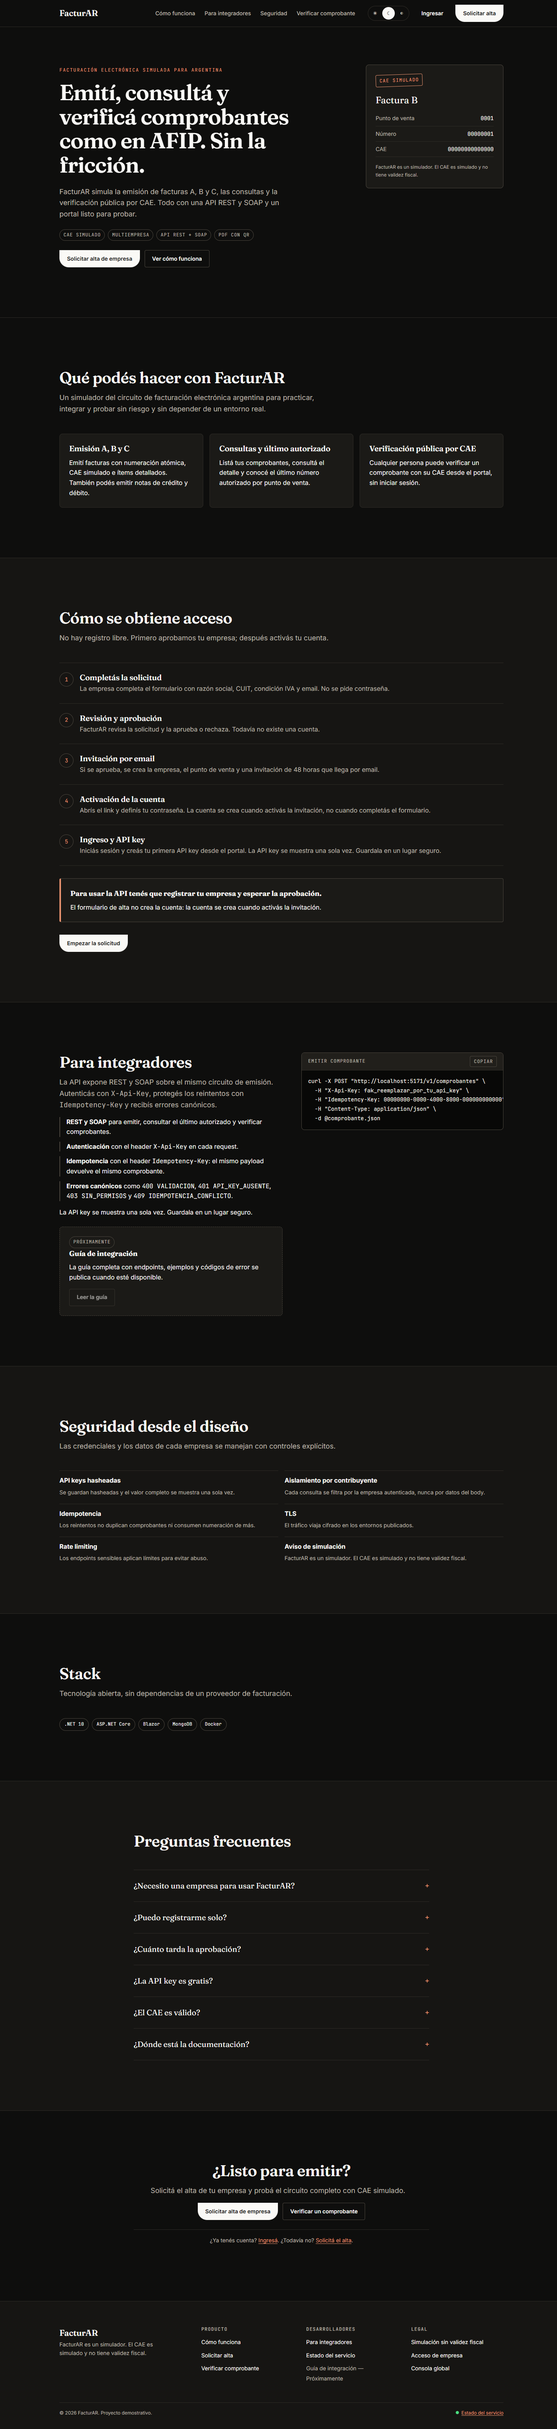
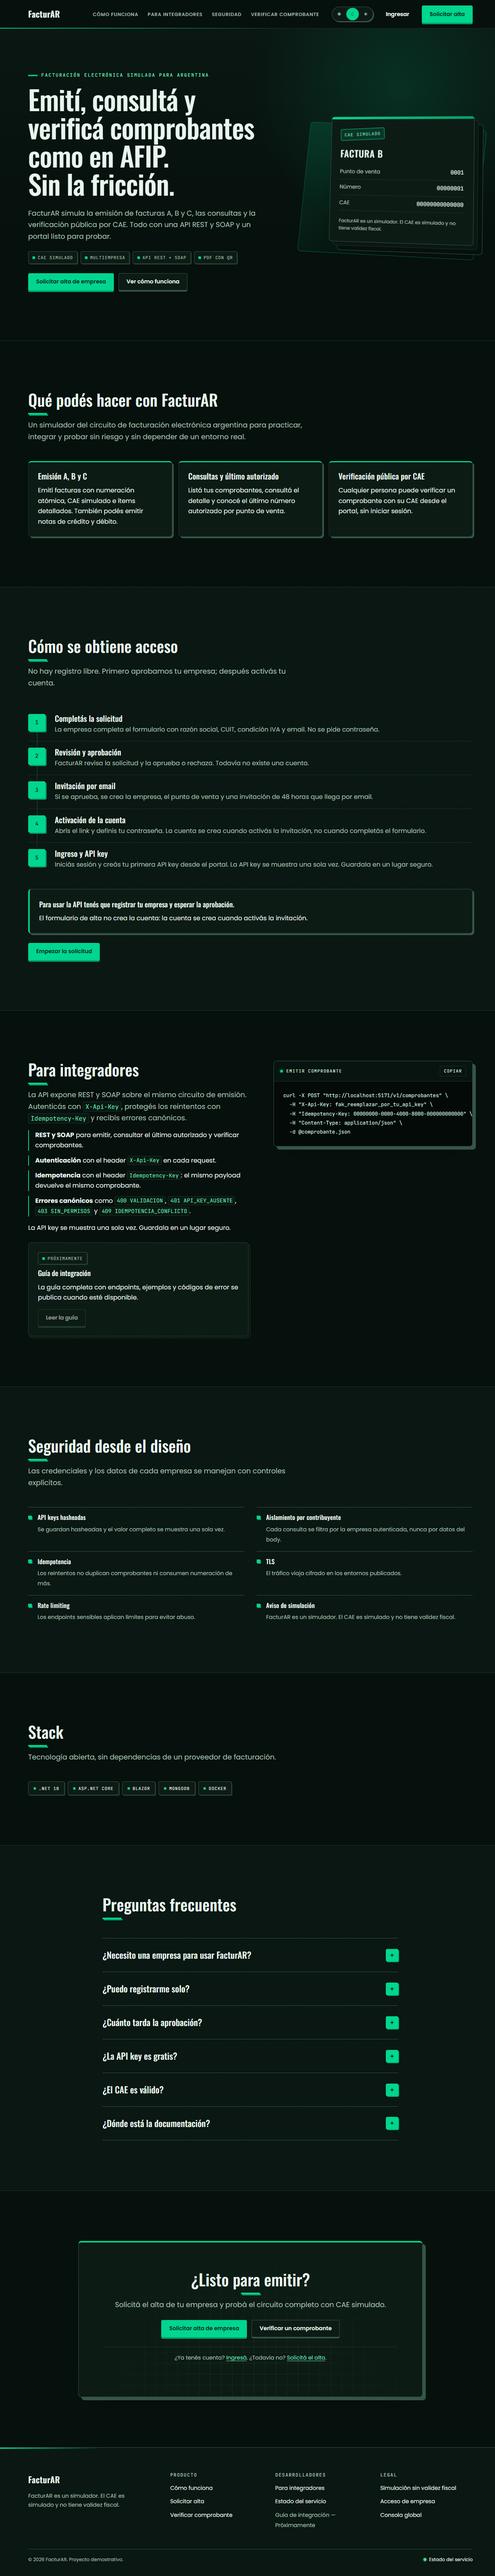
docs(us-32): actualizar la historia y las capturas al rediseño Perspective

diff --git a/docs/historias-usuario/US-32-landing-publica-chatbot.md b/docs/historias-usuario/US-32-landing-publica-chatbot.md
@@ -79,7 +79,7 @@ Reglas que la landing y el asistente deben comunicar sin ambigüedad:
 - [x] La landing deja un slot visible para la guía de integración, con estado “Próximamente” mientras US-30 no esté implementada.
 - [x] La landing es navegable con teclado y tiene enlace “Saltar al contenido”.
 - [x] La landing se ve correctamente en 375, 768, 1280 y 1440 px, sin scroll horizontal.
-- [x] La landing no usa imágenes de stock ni templates genéricos; la identidad es original (“Papel y sello”).
+- [x] La landing no usa imágenes de stock ni templates genéricos; la identidad es original (“Planos en perspectiva”).
 - [x] La landing no depende de JavaScript para mostrar el contenido principal.
 
 ### Sistema de diseño y temas
@@ -139,7 +139,7 @@ Reglas que la landing y el asistente deben comunicar sin ambigüedad:
 - [x] Los tests del asistente usan un proveedor falso; no llaman a Groq en CI.
 - [x] Se actualizan `README.md`, el índice de historias, `docs/requisitos-funcionales.md` y este archivo.
 - [x] `dotnet build`, `dotnet test` y `dotnet format --verify-no-changes` pasan.
-- [ ] El PR incluye capturas de la landing en claro y oscuro, desktop y móvil.
+- [x] El PR incluye capturas de la landing en claro y oscuro, desktop y móvil.
 - [ ] El PR incluye el reporte de Lighthouse y el resultado de axe.
 
 ## Escenarios Gherkin
@@ -216,23 +216,24 @@ Scenario: Groq no responde
 
 ### Fuente y concepto
 
-La base visual se toma del skill **claude** de OpenDesign (`.opencode/skills/claude/SKILL.md` y `DESIGN.md`, autor `typeui.sh`), incorporado al repositorio en `.opencode/skills/claude/`.
+La base visual se toma del skill **Perspective** de OpenDesign (`.opencode/skills/perspective/SKILL.md` y `DESIGN.md`, autor `typeui.sh`), incorporado al repositorio en `.opencode/skills/perspective/`.
 
-El skill propone una estética editorial sobre papel cálido, tinta casi negra y un acento terroso, con superficies de bordes duros, sin sombras y con una CTA primaria de geometría asimétrica. Se adapta a FacturAR con el concepto **“Papel y sello / libro mayor”**:
+El skill propone una estética espacial con vistas isométricas, puntos de fuga y capas que ordenan la atención. Se adapta a FacturAR con el concepto **“Planos y comprobantes en perspectiva”**:
 
-- Papel marfil en claro y tinta nocturna en oscuro.
-- Líneas de libro mayor como separadores, no como decoración excesiva.
-- Un sello tipográfico para “CAE simulado” y para los hitos de confianza.
-- Monospace para CUIT, CAE y bloques de código.
-- CTA primaria con borde superior recto y borde inferior redondeado, usada con moderación.
-- Sin gradientes, sin glows, sin sombras difusas y sin glassmorphism.
+- Fondo verde tinta muy claro en claro y verde nocturno en oscuro.
+- Grilla en perspectiva en el hero, el alta y la verificación.
+- Comprobante apilado en capas con desplazamiento 3D en el hero.
+- Tarjetas con borde superior mint y sombra dura.
+- CTA primaria con labio inferior sólido que se hunde al presionar.
+- Etiquetas, CUIT, CAE y código en monoespaciada.
+- Sin glassmorphism, sin gradientes violeta y sin animaciones de parallax.
 
-Las fuentes propietarias del skill (Anthropic Sans/Serif) **no se usan**. Se reemplazan por alternativas abiertas y self-hosted:
+Las fuentes propietarias del skill **no se usan**. Se reemplazan por alternativas abiertas y self-hosted:
 
 | Rol | Fuente | Fallback |
 | --- | --- | --- |
-| UI / texto | Inter (variable) | `"Segoe UI", system-ui, sans-serif` |
-| Display / títulos | Fraunces (variable) | `"Iowan Old Style", Georgia, serif` |
+| UI / texto | Poppins 400/500/600/700 | `"Segoe UI", system-ui, sans-serif` |
+| Display / títulos | Oswald (variable) | `"Arial Narrow", Impact, sans-serif` |
 | Mono / código | JetBrains Mono (variable) | `"Cascadia Code", ui-monospace, monospace` |
 
 ### Paleta de tokens
@@ -241,28 +242,35 @@ Los valores son la fuente de verdad para implementar. El contraste final se vali
 
 | Token | Claro | Oscuro | Uso |
 | --- | --- | --- | --- |
-| `--color-bg` | `#FAF9F6` | `#0E0E0D` | Fondo de página |
-| `--color-bg-subtle` | `#F3F0E9` | `#161513` | Secciones alternas |
-| `--color-surface` | `#FFFFFF` | `#1B1A17` | Tarjetas y paneles |
-| `--color-surface-raised` | `#FFFDF9` | `#211F1B` | Elementos elevados |
-| `--color-text` | `#141413` | `#FAF9F6` | Texto principal |
-| `--color-text-muted` | `#57534E` | `#BDB6AA` | Texto secundario |
-| `--color-border` | `#E4DED3` | `#2E2B26` | Bordes y separadores |
-| `--color-border-strong` | `#C9C1B3` | `#4A453D` | Bordes de foco/énfasis |
-| `--color-primary` | `#141413` | `#FAF9F6` | Botón primario |
-| `--color-on-primary` | `#FAF9F6` | `#141413` | Texto sobre primario |
-| `--color-accent` | `#B4532A` | `#E8926F` | Acento arcilla, links y sellos |
-| `--color-on-accent` | `#FFFFFF` | `#1A0F0A` | Texto sobre acento |
+| `--color-bg` | `#F2F7F4` | `#06100C` | Fondo de página |
+| `--color-bg-subtle` | `#E8F1EC` | `#0A1712` | Secciones alternas |
+| `--color-surface` | `#FFFFFF` | `#0D1B15` | Tarjetas y paneles |
+| `--color-surface-raised` | `#F8FCFA` | `#12241C` | Elementos elevados |
+| `--color-text` | `#0A1511` | `#E9F6EF` | Texto principal |
+| `--color-text-muted` | `#4C615A` | `#A9C0B6` | Texto secundario |
+| `--color-border` | `#D2E3DA` | `#1E3329` | Bordes y separadores |
+| `--color-border-strong` | `#A6C4B6` | `#355547` | Bordes de énfasis y sombras duras |
+| `--color-primary` | `#00BD7D` | `#00D68F` | CTA, focos y acentos |
+| `--color-primary-strong` | `#00996A` | `#00A36C` | Labio 3D del primario |
+| `--color-on-primary` | `#032219` | `#032219` | Texto sobre primario |
+| `--color-accent` | `#00714B` | `#6EE7B7` | Enlaces y énfasis |
+| `--color-on-accent` | `#FFFFFF` | `#04231A` | Texto sobre acento |
 | `--color-success` | `#15803D` | `#4ADE80` | Éxito |
 | `--color-warning` | `#B45309` | `#FBBF24` | Advertencia |
 | `--color-danger` | `#B91C1C` | `#F87171` | Error |
-| `--color-focus` | `#1D4ED8` | `#93C5FD` | Anillo de foco funcional |
-| `--color-code-bg` | `#141413` | `#080807` | Bloques de código |
-| `--color-code-text` | `#F5F1E8` | `#F5F1E8` | Texto de código |
+| `--color-focus` | `#005C3C` | `#7DFFC4` | Anillo de foco funcional |
+| `--color-code-bg` | `#06110C` | `#030A07` | Bloques de código |
+| `--color-code-header` | `#0B1D15` | `#07140F` | Cabecera del bloque de código |
+| `--color-code-text` | `#D7F5E7` | `#D7F5E7` | Texto de código |
+| `--color-primary-soft` | `rgba(0,189,125,.12)` | `rgba(0,214,143,.14)` | Glows y fondos suaves |
+| `--color-grid` | `rgba(7,60,44,.10)` | `rgba(126,231,183,.10)` | Grillas en perspectiva |
 
 Reglas:
 
-- El acento arcilla se usa en menos del 5% de la superficie visible.
+- El primario mint se usa para CTA, foco y estados activos; no como color de texto de párrafo.
+- La profundidad se construye con desplazamientos duros (`2px`, `4px`, `8px`) y el labio de `4px` del botón primario.
+- La sombra difusa se reserva para el recibo del hero, las tarjetas de autenticación y el panel del asistente.
+- Los planos 3D nunca contienen texto interactivo ni reemplazan la jerarquía semántica.
 - El foco nunca se elimina; se dibuja con `outline: 2px solid var(--color-focus); outline-offset: 2px`.
 - Los estados `hover`, `active`, `disabled` y `focus-visible` son explícitos.
 - No se usan colores crudos en componentes; siempre tokens semánticos.
@@ -279,45 +287,49 @@ Reglas:
 | `--text-xl` | 1.25rem / 20px | H3 |
 | `--text-2xl` | 1.5rem / 24px | H2 |
 | `--text-3xl` | 2rem / 32px | H1 mobile |
-| `--text-4xl` | 2.5rem / 40px | H1 tablet |
+| `--text-4xl` | 2.75rem / 44px | H1 tablet |
 | `--text-5xl` | 3.5rem / 56px | H1 desktop |
 | `--text-6xl` | 4.5rem / 72px | Display puntual |
 
-- Interlineado: 1.1 para display, 1.25 para títulos, 1.6 para cuerpo.
+- Interlineado: 1.02 para display, 1.15 para títulos, 1.65 para cuerpo.
 - Ancho de lectura: 65–75 caracteres.
-- No se usa todo en mayúsculas salvo etiquetas cortas con `letter-spacing: 0.08em`.
-- Los títulos usan Fraunces 500/600; el cuerpo usa Inter 400/500.
+- No se usa todo en mayúsculas salvo etiquetas cortas con `letter-spacing: 0.08em–0.16em`.
+- Los títulos usan Oswald 500; el cuerpo usa Poppins 400/500 y los labels Poppins 600.
+- El hero usa `clamp(2.6rem, 5.4vw, 4.75rem)`; en móvil baja a `clamp(2.35rem, 11vw, 3.25rem)`.
+- Los números de paso, chips y sellos usan JetBrains Mono en mayúsculas.
 
 ### Espaciado, radios y movimiento
 
 - Escala de espaciado: 4, 8, 12, 16, 24, 32, 48, 64, 96 px.
 - Secciones de landing: `clamp(64px, 10vw, 128px)` de padding vertical.
 - Contenedor máximo: 1200 px; lectura: 720 px.
-- Radios: 0 para CTA principales, 4 px para inputs, 8 px para tarjetas, 999 px solo para chips.
-- Sombras: ninguna decorativa. Solo borde de 1 px y, si hace falta, un desplazamiento duro de 2 px en hover.
-- Transiciones: 120–180 ms, `ease-out`; se desactivan con `prefers-reduced-motion: reduce`.
+- Radios: 4 px para controles, botones y chips; 8 px para tarjetas y paneles; 999 px solo para el toggle de tema y el botón flotante del asistente.
+- Profundidad: sombras duras de `2px`, `4px` y `8px`; labio del primario `0 4px 0`; sombra de elevación solo en recibo, auth y asistente.
+- Planos isométricos: `perspective` entre 600 y 1200 px, `rotateX`/`rotateY` suaves y `overflow: hidden` en la sección para evitar scroll horizontal.
+- Transiciones: 120–200 ms, `cubic-bezier(0.2, 0.7, 0.2, 1)`; se desactivan con `prefers-reduced-motion: reduce`.
 - No se usan animaciones de scroll, parallax ni autoplay.
 
 ### Componentes base
 
 | Componente | Reglas |
 | --- | --- |
-| Navbar | Logo, enlaces, toggle de tema, “Ingresar”, CTA “Solicitar alta”. Sticky con borde inferior. En móvil, menú accesible con `<button aria-expanded>`. |
+| Navbar | Logo, enlaces mono en mayúsculas, toggle de tema, “Ingresar”, CTA “Solicitar alta”. Sticky con blur, borde inferior y regla mint. En móvil, menú accesible con `<button aria-expanded>`. |
 | Footer | Logo, descripción corta, columnas Producto/Desarrolladores/Legal, estado del servicio y copyright. |
-| Botón primario | Fondo `--color-primary`, texto `--color-on-primary`, borde superior recto y borde inferior redondeado 24 px. |
-| Botón secundario | Borde 1 px, fondo transparente, texto principal. |
-| Tarjeta | Superficie, borde 1 px, sin sombra, padding 24–32 px. |
-| Badge/sello | Borde 1 px, texto mono en mayúsculas, sin relleno fuerte. |
-| Bloque de código | Fondo `--color-code-bg`, texto `--color-code-text`, botón “Copiar” accesible. |
-| Acordeón FAQ | `<details>`/`<summary>` nativo o botón con `aria-expanded`; foco visible. |
-| Toggle de tema | Grupo de 3 opciones (Claro, Oscuro, Sistema) o botón cíclico con nombre accesible. Persistencia y `aria-pressed`. |
-| Asistente | Botón flotante abajo a la derecha, panel, header, mensajes, quick replies, input, disclaimer. |
+| Botón primario | Fondo `--color-primary`, texto `--color-on-primary`, radio 4 px y labio `0 4px 0 --color-primary-strong`. Hover eleva 2 px; active hunde 2 px. |
+| Botón secundario | Superficie, borde fuerte, texto principal y sombra dura de 3 px; hover cambia el labio a mint. |
+| Tarjeta | Superficie, borde 1 px, borde superior mint de 3 px, radio 8 px y sombra dura de 4 px. Hover eleva 2 px. |
+| Badge/sello | Mono en mayúsculas, superficie, borde fuerte, cuadrado mint y sombra dura de 2 px. |
+| Bloque de código | Fondo oscuro, cabecera con punto mint, texto mono claro y botón “Copiar” accesible. |
+| Acordeón FAQ | `<details>`/`<summary>` nativo; indicador +/− en cuadrado mint con sombra dura; foco visible. |
+| Toggle de tema | Grupo de 3 opciones (Claro, Oscuro, Sistema) con `aria-pressed`; la opción activa usa mint. Persistencia y `prefers-color-scheme` en `system`. |
+| Asistente | Botón flotante abajo a la derecha con labio mint, panel con borde superior mint, header, mensajes, quick replies, input y disclaimer. |
 
 ### Anti-patrones prohibidos
 
 - Copiar un template de landing SaaS genérico.
-- Usar gradientes violeta/azul, glassmorphism o ilustraciones 3D de stock.
-- Sombras difusas, bordes redondeados en todos los elementos y animaciones constantes.
+- Usar glassmorphism, gradientes violeta/azul o ilustraciones 3D de stock.
+- Aplicar transformaciones 3D a párrafos, formularios o controles interactivos.
+- Sombras difusas fuera del recibo, las tarjetas de auth y el asistente.
 - Texto gris claro sobre fondo claro.
 - Íconos sin etiqueta accesible.
 - Un `<div>` clickeable en lugar de un `<a>` o `<button>`.
@@ -376,10 +388,13 @@ Reglas:
 - JavaScript propio mínimo en `wwwroot/js/theme.js` y `wwwroot/js/asistente.js`.
 - Sin Bootstrap en la landing. El portal autenticado puede conservar Bootstrap mientras migra a tokens.
 - Fuentes self-hosted:
-  - `wwwroot/fonts/inter-latin-var.woff2`
-  - `wwwroot/fonts/fraunces-latin-var.woff2`
+  - `wwwroot/fonts/poppins-latin-400.woff2`
+  - `wwwroot/fonts/poppins-latin-500.woff2`
+  - `wwwroot/fonts/poppins-latin-600.woff2`
+  - `wwwroot/fonts/poppins-latin-700.woff2`
+  - `wwwroot/fonts/oswald-latin-var.woff2`
   - `wwwroot/fonts/jetbrains-mono-latin-var.woff2`
-- Preload solo de Inter 400/600 y Fraunces 600; el resto con `font-display: swap`.
+- Preload solo de Poppins 400/600 y Oswald variable; el resto con `font-display: swap`.
 - El tema se aplica con un script inline de menos de 1 KB antes del primer paint.
 - Las imágenes del hero usan `fetchpriority="high"`; el resto `loading="lazy"`.
 
@@ -716,7 +731,7 @@ Enlaces a revisar: `Dashboard.razor`, `NavMenu.razor`, `Login.cshtml.cs`, `Compr
 
 - .NET 10 y el stack existente. No se agregan frameworks CSS/JS.
 - Groq se consume por HTTP con `HttpClient`; no se agrega SDK.
-- Fuentes open source self-hosted: Inter, Fraunces y JetBrains Mono (SIL Open Font License). Se incluyen los archivos `woff2` y la licencia en `wwwroot/fonts/LICENSE.txt`.
+- Fuentes open source self-hosted: Poppins, Oswald y JetBrains Mono (SIL Open Font License). Se incluyen los archivos `woff2` y la licencia en `wwwroot/fonts/LICENSE.txt`.
 - Si se decide usar un paquete de Markdown o sanitización, justificarlo en el PR; la preferencia es texto plano y cero dependencias nuevas.
 
 ## Accesibilidad
@@ -821,8 +836,9 @@ Enlaces a revisar: `Dashboard.razor`, `NavMenu.razor`, `Login.cshtml.cs`, `Compr
 - `AsistenteEndpointTests` cubre 404 deshabilitado, 400 sin antiforgery, 403 por `Origin` ausente o distinto, 400 por mensaje vacío, campo desconocido, rol `system` o body > 8 KB, 200 con proveedor falso, 503 amable sin stack trace, 429 al séptimo mensaje con `Retry-After` y no filtración de la key ni del `Origin`.
 - `AsistentePoliticaTests` cubre RT-32.01 a RT-32.10 y RT-32.13, incluida la inyección en base64 y con caracteres invisibles; `AsistenteLimitesTests` cubre rate limits, presupuesto diario, requests diarios y circuit breaker; `AsistenteOptionsTests` valida el arranque con `Asistente:Habilitado=true` sin key.
 - QA Playwright contra el portal en `http://localhost:5116` con el asistente habilitado y un proveedor inalcanzable a propósito: CP-32.01, CP-32.02, CP-32.03 (302), CP-32.05, CP-32.06, CP-32.07 (oscuro + recarga sin flash + `aria-pressed`), CP-32.08 (system con `emulateMedia`), CP-32.09 (375 px sin scroll horizontal, menú con teclado y Escape), CP-32.10 (skip link como primer foco; `main` con `tabindex="-1"`), CP-32.12 (abre, foco en input, Escape cierra y devuelve foco), CP-32.20 (XSS como texto, 0 `<img>`), CP-32.23 (wordmark textual, sin imagen rota) y CP-32.24 (`noindex` en login/admin/activar).
-- QA responsive en 375, 768, 1280 y 1440 px sin scroll horizontal. Asistente: quick replies visibles, disclaimer, contador, envío con Enter, 503 amable con “Reintentar” y enlaces a FAQ/formulario, sin stack trace; el tema claro/oscuro/sistema persiste en `localStorage`.
+- QA responsive en 375, 768, 1280 y 1440 px sin scroll horizontal. El rediseño Perspective se verificó en claro y oscuro, con foco visible por teclado, menú móvil y capturas regeneradas. Asistente: quick replies visibles, disclaimer, contador, envío con Enter, 503 amable con “Reintentar” y enlaces a FAQ/formulario, sin stack trace; el tema claro/oscuro/sistema persiste en `localStorage`.
 - Capturas en `docs/capturas/us-32/`: `landing-claro-desktop.png`, `landing-oscuro-desktop.png`, `landing-claro-movil.png`, `landing-oscuro-movil.png`, `asistente-desktop.png` y `asistente-movil.png` (las 6 existen y pesan más de 0 bytes).
+- Contraste WCAG de los pares de tokens principales medido con fórmula de luminancia relativa: texto/fondo 17.18:1 en claro y 17.38:1 en oscuro; texto atenuado 6.13:1/10.03:1; acento 5.60:1/12.67:1; texto sobre primario 6.88:1/8.84:1; texto sobre el labio del primario 4.62:1/5.18:1. Todos los pares de texto superan 4.5:1.
 - Verificación de tamaño: CSS de la landing 4,6 KB gzip (`tokens.css` + `public.css`); JS propio 5,7 KB gzip (`theme.js` + `asistente.js`), por debajo de los límites de la historia.
 - Persistencia: el asistente no accede a MongoDB ni escribe el texto de los mensajes; solo metadatos y categoría.
 
@@ -832,7 +848,7 @@ Enlaces a revisar: `Dashboard.razor`, `NavMenu.razor`, `Login.cshtml.cs`, `Compr
 - axe: no hay herramienta de auditoría de accesibilidad disponible.
 - Respuesta real de Groq: no hay API key; solo se probó con proveedor falso y fallback 503.
 - QA manual contra Groq real de CP-32.11, CP-32.13/14/15/16/17/18 y CP-32.21 (revisión de logs en runtime); CP-32.22 ya está cubierto por test automático.
-- Contraste WCAG medido con herramienta en ambos temas.
+- Contraste WCAG a nivel de componente con axe o medidor sobre la UI renderizada; los pares de tokens principales ya se midieron y superan 4.5:1 en ambos temas.
 - Tema claro/oscuro/system en login, alta, activación, verificación y shell del portal (el QA se hizo en la landing).
 - Assets de marca `wwwroot/brand/*.png` y `og-image.png`: los sube el usuario; el código degrada a wordmark textual y las metas referencian la ruta.
 - Imágenes con dimensiones explícitas y `loading="lazy"`: depende de los assets de marca.

diff --git a/docs/historias-usuario/README.md b/docs/historias-usuario/README.md
@@ -92,7 +92,7 @@ El cierre de QA del 2026-11-05 está documentado en [`docs/qa-cierre-2026-11-05.
 
 **US-12** queda en **Completada**: `GET /v1/comprobantes/dashboard` devuelve las métricas del mes (`mes=YYYY-MM` opcional, periodo UTC), el último CAE, el máximo número autorizado y los últimos cinco comprobantes, con API key o cookie de empresa y `ContribuyenteId` resuelto desde la credencial. El portal expone `/dashboard` (dashboard), `/comprobantes` (filtros y paginación) y `/comprobantes/{id}` (detalle) reutilizando US-09 y US-10; la landing pública vive en `/` desde US-32. Está cubierto por 14 tests unitarios, 11 de integración y 7 `MongoFact`; la suite completa con MongoDB real (Atlas, base temporal QA) pasó con 556 unitarios + 320 integración, 0 omitidos y 0 fallos. La QA manual con Playwright contra API, portal y Mongo reales verificó CP-01 a CP-14: dashboard con datos, estado vacío, aislamiento, filtros y paginación, PDF, detalle, formato argentino, conservación de filtros, error y reintento, carga SSR, teclado, responsive, conciliación dashboard/listado y rol `Consulta`.
 
-**US-32** queda en **Parcial**: `/` es la landing pública SSR y el dashboard autenticado se movió a `/dashboard`; `/inicio` responde `301` a `/`. El portal usa un sistema de tokens claro/oscuro/system con tema persistente y sin FOUC. La landing incluye SEO técnico (JSON-LD, `robots.txt`, `sitemap.xml` y canonical desde `Portal:BaseUrl`) y el asistente informativo vive en `/solicitar-alta` con el endpoint `POST /asistente/mensajes` en el portal: Groq configurable, deshabilitado por defecto, con rate limit, presupuesto, circuito y filtros de entrada y salida. Suma 70 tests unitarios y 23 de integración nuevos, y QA Playwright de CP-32.01 a CP-32.10, CP-32.12, CP-32.20, CP-32.23 y CP-32.24, además de responsive en 375, 768, 1280 y 1440 px. Faltan Lighthouse, axe, la respuesta real de Groq y los assets de marca.
+**US-32** queda en **Parcial**: `/` es la landing pública SSR y el dashboard autenticado se movió a `/dashboard`; `/inicio` responde `301` a `/`. El portal usa el sistema de diseño **Perspective** (Oswald, Poppins y JetBrains Mono; paleta mint; grillas y planos isométricos) con tokens claro/oscuro/system, tema persistente y sin FOUC. La landing incluye SEO técnico (JSON-LD, `robots.txt`, `sitemap.xml` y canonical desde `Portal:BaseUrl`) y el asistente informativo vive en `/solicitar-alta` con el endpoint `POST /asistente/mensajes` en el portal: Groq configurable, deshabilitado por defecto, con rate limit, presupuesto, circuito y filtros de entrada y salida. Suma 70 tests unitarios y 23 de integración nuevos, y QA Playwright de CP-32.01 a CP-32.10, CP-32.12, CP-32.20, CP-32.23 y CP-32.24, además de responsive en 375, 768, 1280 y 1440 px y verificación del rediseño en esos mismos anchos. Faltan Lighthouse, axe, la respuesta real de Groq y los assets de marca.
 
 **US-17** queda en **Parcial**: `EventoAuditoria` incluye `ActorTipo`, `AdministradorId` y `ContribuyenteId` nullable; `AuditoriaValidator` valida coherencia de actores y bloquea tokens, hashes, prefijos de API key, contraseñas y secretos; las acciones de login, logout, solicitud, aprobación, rechazo, invitación, activación, API keys y emisión quedan auditadas. La outbox tiene `IOutboxRepository` con claim atómico, `OutboxWorker` con reintentos y backoff exponencial, máximo configurable (`Outbox:MaxIntentos`), auditoría `OutboxProcesado`/`OutboxFallido` y consulta de soporte por `Id` o `Estado` + `CreatedAt`. Cubierto por 601 unitarios y 158 integraciones sin Mongo (174 omitidos). Faltan la verificación con MongoDB real del claim concurrente, las consultas y el encolado transaccional, el `explain()` de los índices y el QA manual de intervalos reales.
 
